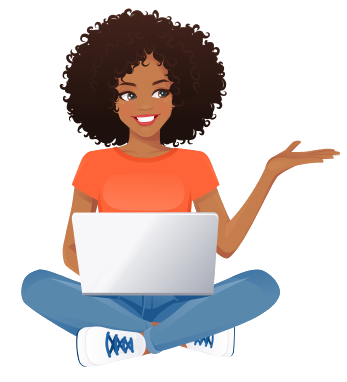
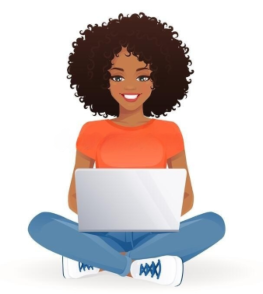
Rename the laptop giirl image and install react-media to change the contact image based on viewport size.

diff --git a/src/components/Contact/index.js b/src/components/Contact/index.js
@@ -1,6 +1,10 @@
 import './contact.css';
+import { Fragment } from 'react';
 import { Container, Row, Col, Form, Button, Image } from 'react-bootstrap';
-import laptopGirl from './images/laptopGirl-arrow.png';
+
+import Media from 'react-media';
+import arrowGirl from './images/laptopGirl-arrow.png';
+
 
 function Contact() {
   return (
@@ -18,7 +22,7 @@ function Contact() {
             .
           </p>
           <Col className='d-flex justify-content-center mt-5'>
-            <Image src={laptopGirl}/>
+            <Image src={arrowGirl}/>
           </Col>
         </Col>
         <Col ></Col>
